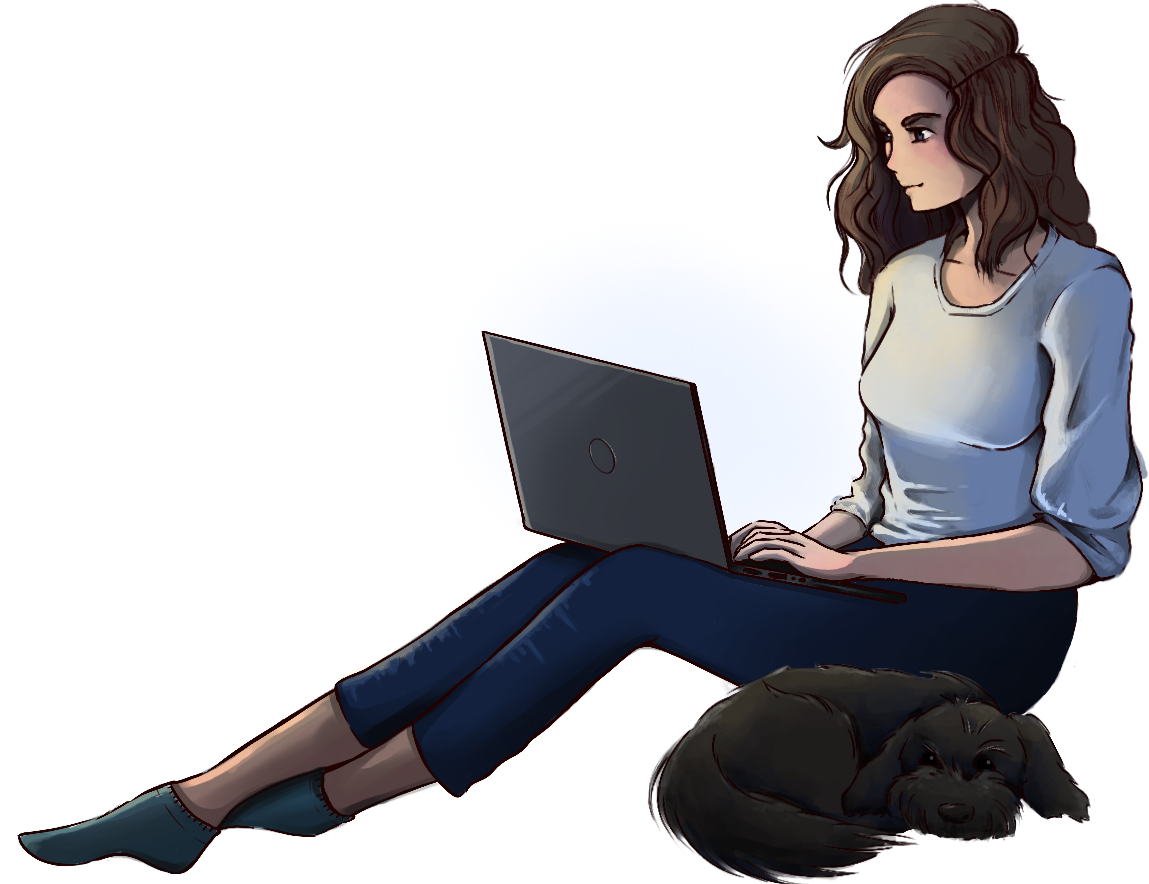
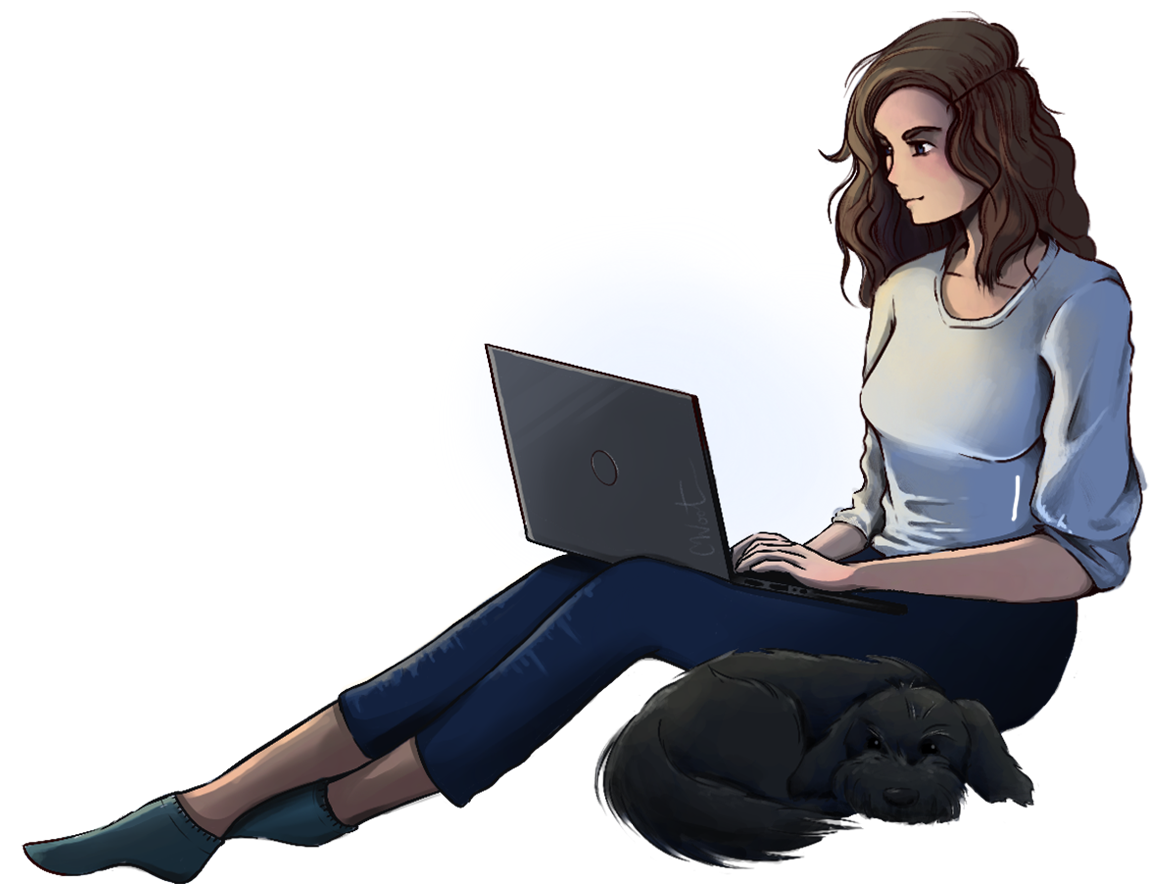
Fixed issues that friends found

diff --git a/src/components/cards.js b/src/components/cards.js
@@ -29,7 +29,7 @@ const CardText = ( {card, cardText} ) => {
 				{ cardInfo.projectLink || cardInfo.githubLink ? 
 					<div className='project-cards__footer'>
 						{ cardInfo.projectLink ? <Button link={cardInfo.projectLink} text={'Visit Site'} visuallyHidden={true} type={'external'} icon={true} /> : ''}
-						{ cardInfo.githubLink ? <Button link={cardInfo.githubLink} text={'Visit Github'} visuallyHidden={true} type={'github'} icon={true} />: ''}
+						{ cardInfo.githubLink ? <Button link={cardInfo.githubLink} text={'Visit GitHub'} visuallyHidden={true} type={'github'} icon={true} />: ''}
 					</div>
 					: ''}
 			</div>

diff --git a/src/components/head.js b/src/components/head.js
@@ -12,6 +12,7 @@ export function Head( {location, params, data, pageContext} ) {
 			<link rel="preconnect" href="https://fonts.gstatic.com" crossOrigin></link>
 			<link href="https://fonts.googleapis.com/css2?family=Fira+Code:wght@300..700&family=Open+Sans:ital,wght@0,300..800;1,300..800&display=swap" rel="stylesheet"></link>
 			<link href="https://fonts.googleapis.com/css2?family=Fira+Code:wght@300..700&display=swap" rel="stylesheet"></link>
+			<meta name="viewport" content="width=device-width, initial-scale=1"></meta>
 		</>
 	);
 }

diff --git a/src/styles/_partials/logo-grid/logo-grid-small.scss b/src/styles/_partials/logo-grid/logo-grid-small.scss
@@ -9,6 +9,10 @@ $block: 'logo-grid';
 	padding-block: $vertical-spacing;
 	$gap: calc($gutter * 2);
 
+	@supports (hanging-punctuation: first) { // safari has a bug with background-attachment fixed https://css-tricks.com/the-fixed-background-attachment-hack/
+		background-attachment: scroll;
+	}
+
 	&:after {
 		position: absolute;
 		inset: 0;

diff --git a/src/styles/_partials/hero/hero-small.scss b/src/styles/_partials/hero/hero-small.scss
@@ -88,6 +88,10 @@ $block: hero;
 		background-size: cover; 
 		z-index: 2;
 
+		@supports (hanging-punctuation: first) { // safari has a bug with background-attachment fixed https://css-tricks.com/the-fixed-background-attachment-hack/
+			background-attachment: scroll;
+		}
+
 		&:after {
 			position: absolute;
 			inset: 0;

diff --git a/src/styles/_partials/tags/tags-small.scss b/src/styles/_partials/tags/tags-small.scss
@@ -1,3 +1,7 @@
+html {
+	overflow-x: hidden;
+}
+
 body {
 	background-color:  $background-color; 
 	font-family: $font-family-primary;

diff --git a/src/data/content/homepage.md b/src/data/content/homepage.md
@@ -45,7 +45,7 @@ My name is Carly, and I am a Front-End Engineer and Artist.
 Previously, I was a Digital Project Manager, but I missed _creating_ something as I worked. I quickly fell in love with code after seeing the incredible products that my colleagues were making on the web. Through self-study and on the job training, I transitioned to being a developer in 2022. 
 
 When working, I strive to fulfill 3 main principles: 
-- *Artisinal Coding*: I see development as an extenstion of my art practice. I love to create things and solve problems, whether I'm using paint or code. 
+- *Artisanal Coding*: I see development as an extenstion of my art practice. I love to create things and solve problems, whether I'm using paint or code. 
 - *Commitment to Accessibility*: The things I make should be accessible to as many people as possible. 
 - *Collaboration*: I am continually learning as I work - the best way to learn is to work with other people 
 

diff --git a/src/data/content/global.md b/src/data/content/global.md
@@ -7,7 +7,7 @@ nav:
 footerDescription: Made with <3 with Gatsby and Bootstrap. Check out my repo.
 footer: 
     - link: https://github.com/carly-kins
-      text: Github
+      text: GitHub
       btnType: github
     - link: https://www.linkedin.com/in/carly-anne-wooten
       text: LinkedIn
